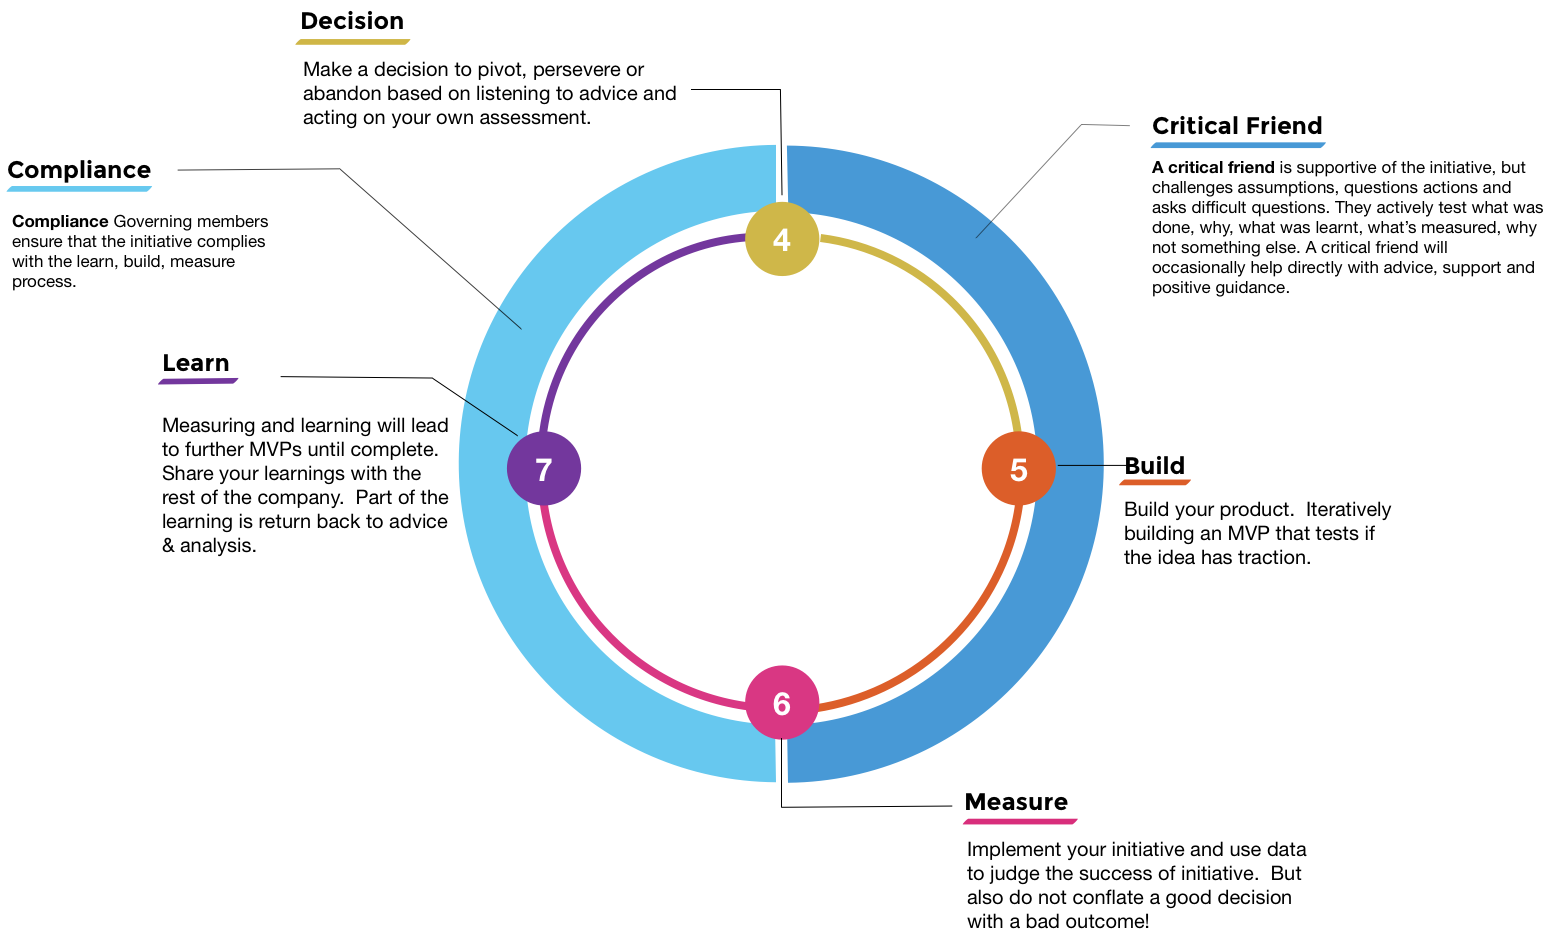
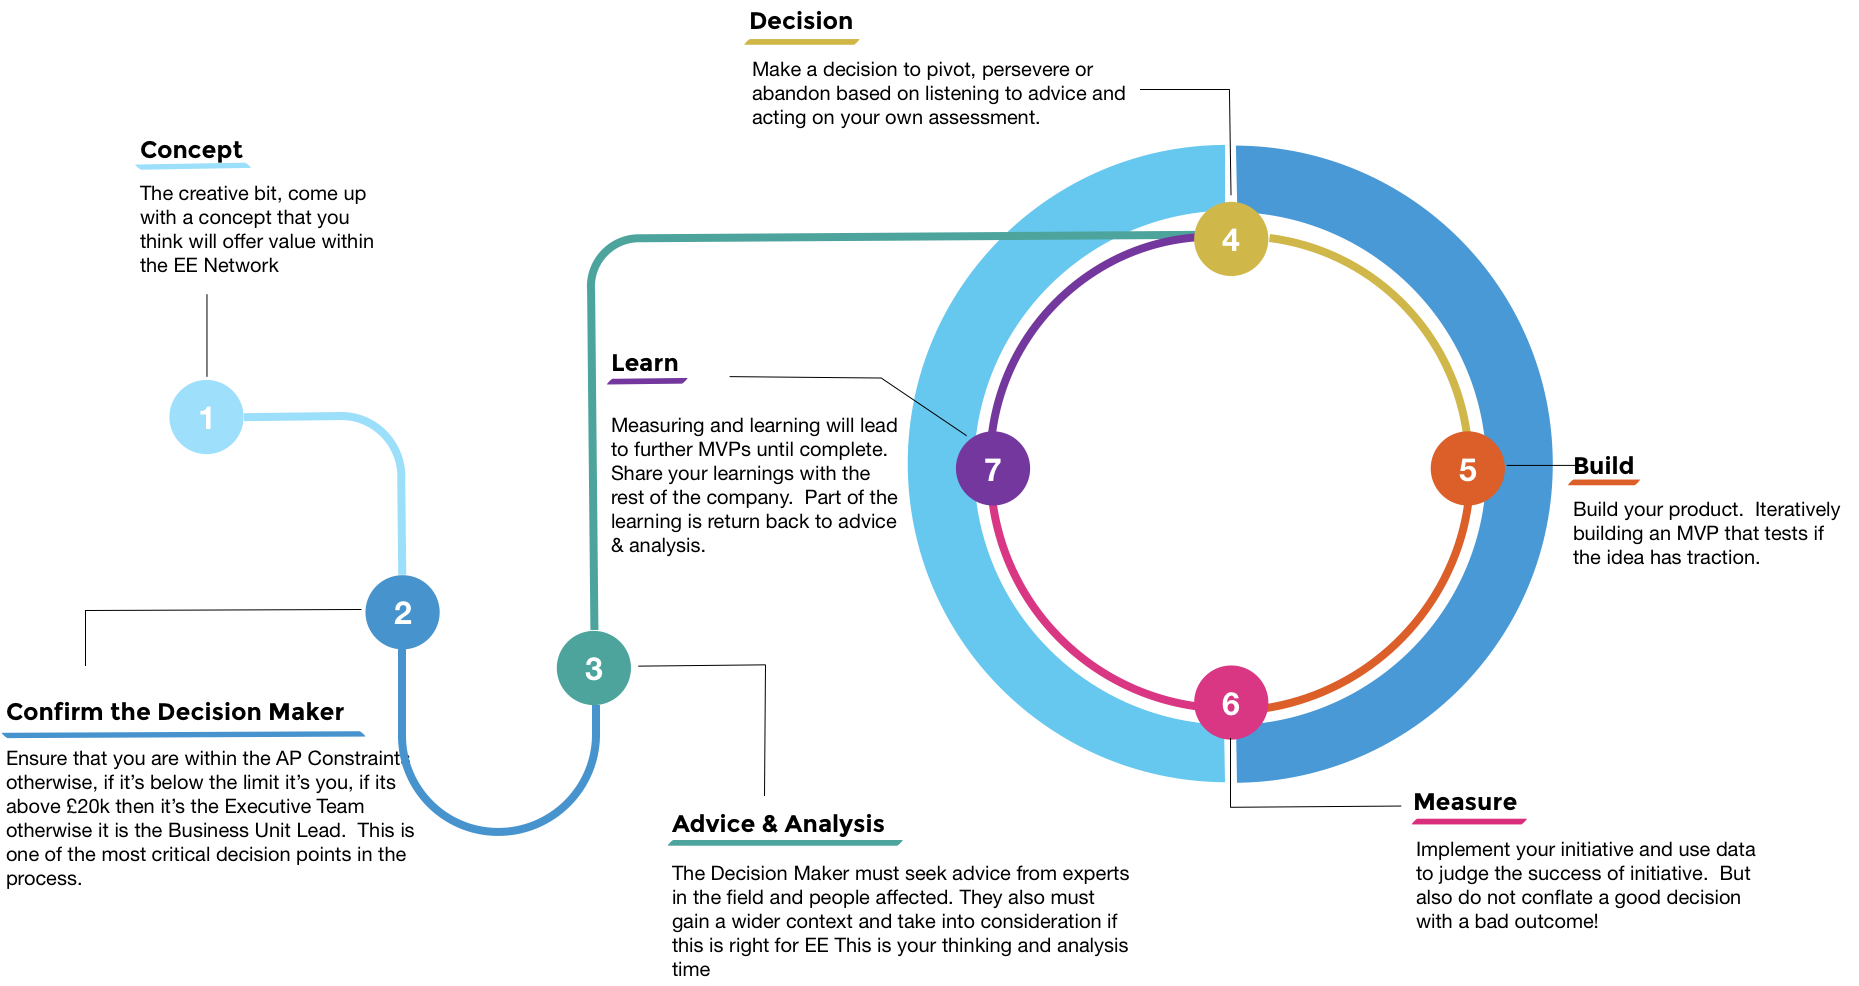
GitBook: [master] 3 pages and 5 assets modified

Changed region(s): [[0.0927, 0.0, 1.0, 0.9883], [0.0, 0.7103, 0.3091, 0.8956], [0.0, 0.1235, 0.2164, 0.3088]]

diff --git a/README.md b/README.md
@@ -6,7 +6,7 @@ description: A guide to using the Advice Process at Equal Experts
 
 **We wrote this playbook to share our ongoing experience of a real-world implementation of the Advice Process at Equal Experts, and related non-conventional approaches to running a company.**
 
-![](.gitbook/assets/image%20%282%29.png)
+![](.gitbook/assets/image%20%284%29.png)
 
 This playbook is written for two audiences - people working within the Equal Experts network \(EE\), who want to learn more about the Advice Process \(AP\), and those outside our organisation who are curious to learn more about how it works \(possibly with a view to trying it within their own organisations\).
 

diff --git a/how-the-ap-works/governance-for-long-running-initiatives.md b/how-the-ap-works/governance-for-long-running-initiatives.md
@@ -14,7 +14,7 @@ Our governance is more lean start-up than corporate take-over. Its design is bas
 
 Here’s our governance set-up:
 
-![](../.gitbook/assets/image%20%283%29.png)
+![](../.gitbook/assets/image%20%286%29.png)
 
 ### Governance Group Mandate
 

diff --git a/background/overview.md b/background/overview.md
@@ -6,7 +6,7 @@ description: When to use the Advice Process
 
 ## The Process in a Picture
 
-![](../.gitbook/assets/image%20%281%29.png)
+![](../.gitbook/assets/image%20%285%29.png)
 
 ## When to use the Advice Process
 
